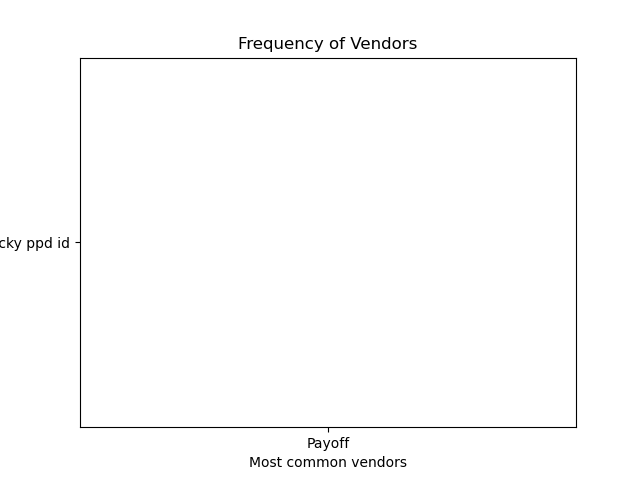
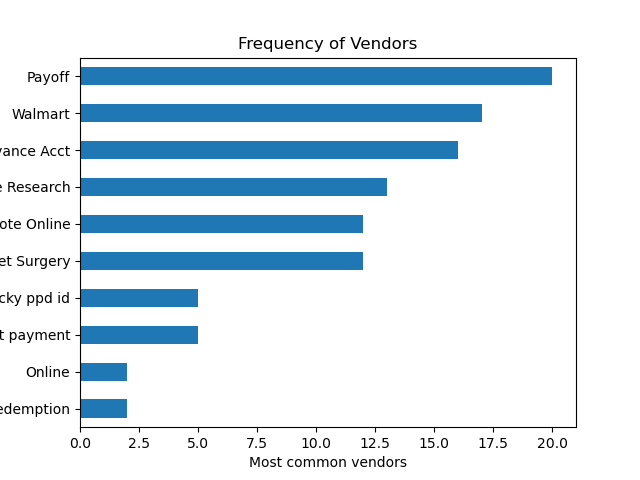
graph works

diff --git a/templates/target_page.html b/templates/target_page.html
@@ -111,6 +111,9 @@ ul{
                 <a href="/connect_to_recommendations" target="_blank">Recommendations</a>
             </li>
             <li>
+                <a href="#" onclick="fetchJsonAndOpenHTML()" target="_blank">RTest</a>
+            </li>
+            <li>
                 <a href="/dashboard" target="_blank">Go to dashboard</a>
             </li>
             <li style="float:right; background-color: #4070f4;">
@@ -134,8 +137,67 @@ ul{
             <p><button class= "log_out">Connect to Bank</button></p>
         </a>
         
-    
+      
+
+    <button id="openHTMLButton">Generate & Open Styled HTML</button>
+
+    <script>
+        document.getElementById("openHTMLButton").addEventListener("click", function() {
+            fetchJsonAndOpenHTML();
+        });
+
+        // Convert JSON to HTML
+        function convertJSONToHTML(jsonData) {
+                let html = '<html><head><title>Recommendations</title><style>';
+                // Add your CSS styles here
+
+                //css past here 
+                html += 'body { font-family: Arial, sans-serif;  background: rgb(219, 232, 238);}';
+                html += 'div { margin: 10px; }';
 
 
+
+                //css ends body starts
+                html += '</style></head><body>';
+                
+                html += '<ul>'; 
+                for (const key in jsonData) {
+                    if (jsonData.hasOwnProperty(key)) {
+                        html += `<div><strong>${key}:</strong> ${jsonData[key]}</div>`;
+                    }
+                }
+                html += '</ul>';
+
+                
+                html += '</body></html>';
+                return html;
+            }
+
+            // Open the HTML content in a new tab
+            function openHTMLInNewTab(htmlContent) {
+                const newTab = window.open();
+                newTab.document.open();
+                newTab.document.write(htmlContent);
+                newTab.document.close();
+            }
+
+        async function fetchJsonAndOpenHTML() {
+            try {
+                // Fetch JSON data from your Flask API endpoint
+                const response = await fetch('/connect_to_recommendations');
+                const jsonData = await response.json();
+
+                // Convert JSON to HTML
+                const htmlContent = convertJSONToHTML(jsonData);
+
+                // Open the HTML content in a new tab
+                openHTMLInNewTab(htmlContent);
+            } catch (error) {
+                console.error('Error fetching JSON:', error);
+            }
+        
+            const htmlContent = convertJSONToHTML(jsonData);
+            openHTMLInNewTab(htmlContent); }
+    </script>   
     </body>
 </html>

diff --git a/main.py b/main.py
@@ -15,6 +15,7 @@ from functools import lru_cache
 import logging
 import pandas as pd
 import matplotlib.pyplot as plt
+import matplotlib
 
 
 app = Flask(__name__)
@@ -413,35 +414,31 @@ def load_dashboard():
     for transaction in data:
         df.loc[len(df.index)] = [transaction['amount'], transaction['normalizedPayeeName']]
 
+    print(df)
     print(df.shape) # 111, 2
     print(df.columns) # Index(['Vendor', 'Amount'], dtype='object')
-    print(df['Amount'].value_counts()) # good
+    print(df['Amount'].value_counts(sort=False)) # good
+    print(df['Amount'].value_counts(sort=False)[0])
     print(df['Amount'].unique())
 
+    col1 = df['Amount'].value_counts()
+    print(col1[:10])
+    # col2 = 
+
+
     data_to_plot = pd.DataFrame([df['Amount'].value_counts(sort=False), df['Amount'].unique()])
-    # data_to_plot.columns = ['Vendor', 'Frequency']
 
-    # shortened_data_to_plot = data_to_plot['1']
-
-    print("Shortened data:::::::")    
-    print(data_to_plot[:10])
-    print(data_to_plot.shape)
-
-    '''
-    plt.bar(data_to_plot[0][:10], data_to_plot[1][:10])
+    matplotlib.use('agg')
+    # plt.bar(col1)
+    counts = df['Amount'].value_counts()
+    ax = counts.iloc[:10].plot(kind="barh")
+    ax.invert_yaxis()
     plt.title('Frequency of Vendors')
     plt.xlabel("Most common vendors")
     plt.ylabel("Frequency")
-    # plt.show()
+    # return plt.show()
     plt.savefig('static/plot.png')
-    '''
-
-
-
-    # print_list = df.to_dict()
-    # print_list = [df.shape, df.columns, df.value_counts]
-
-
+    
     
 
     return render_template('plot.html')
